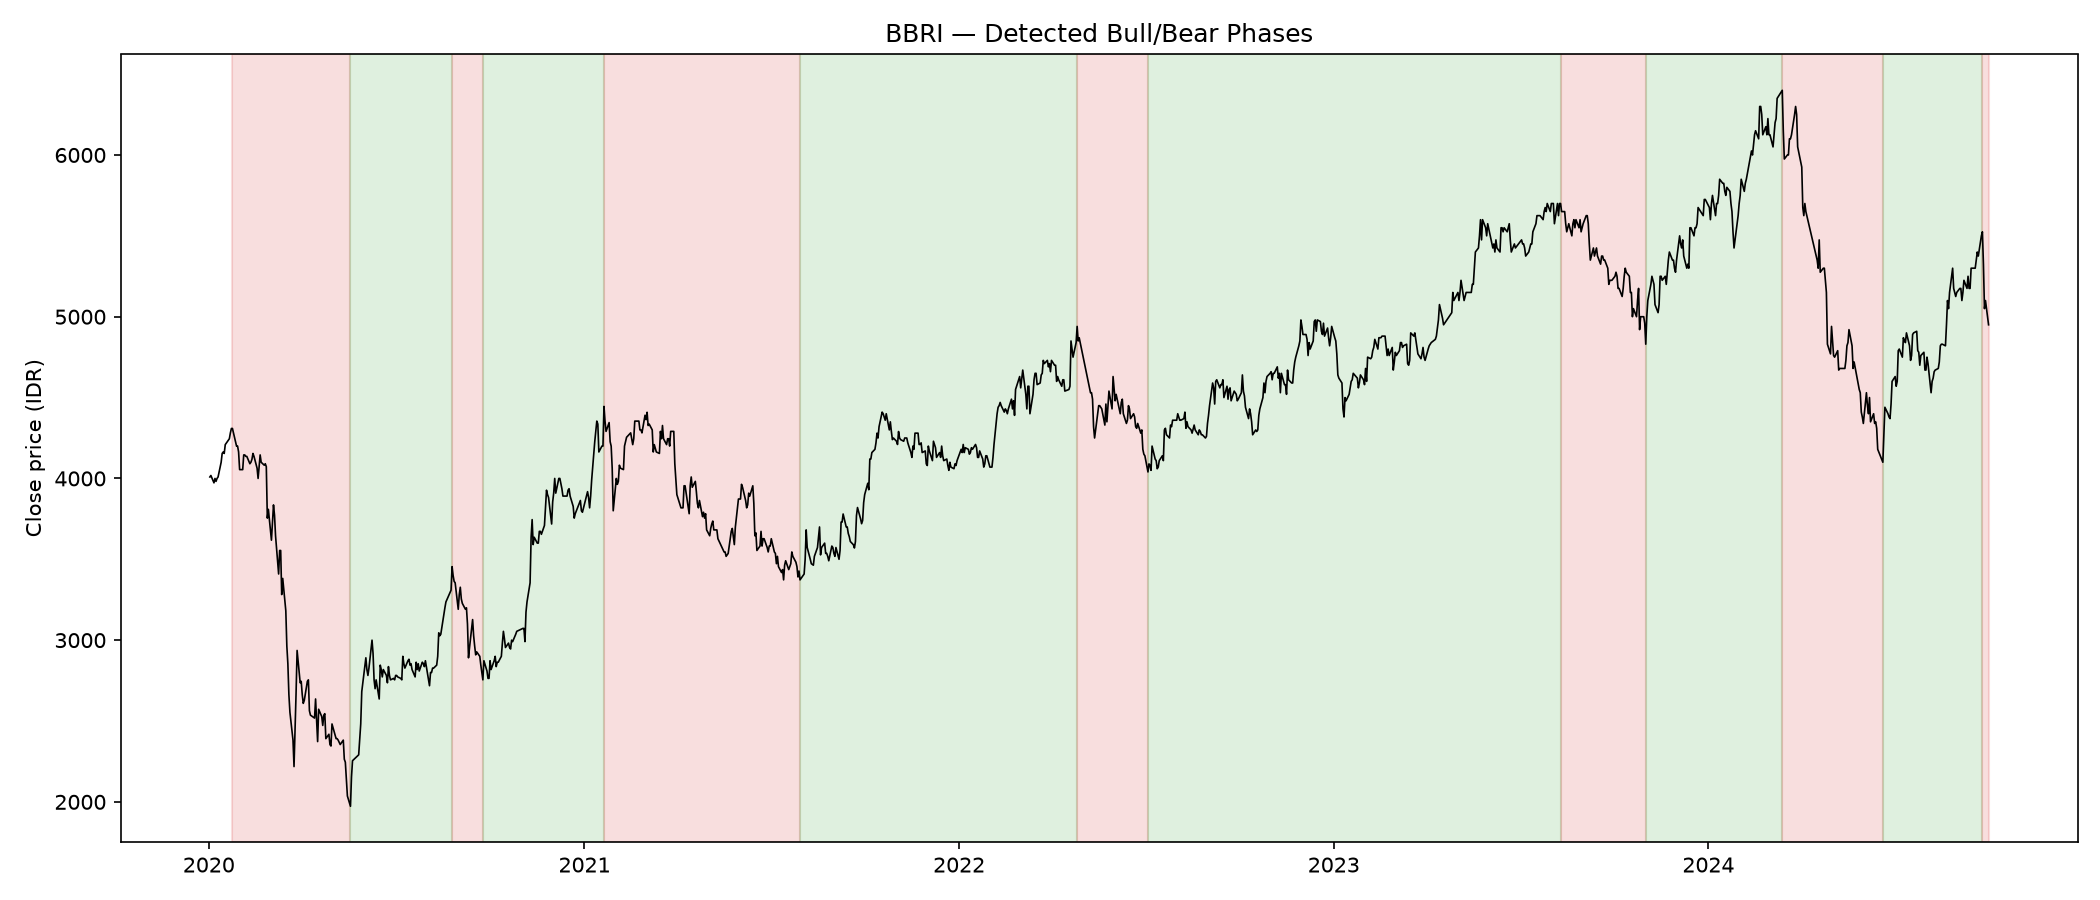
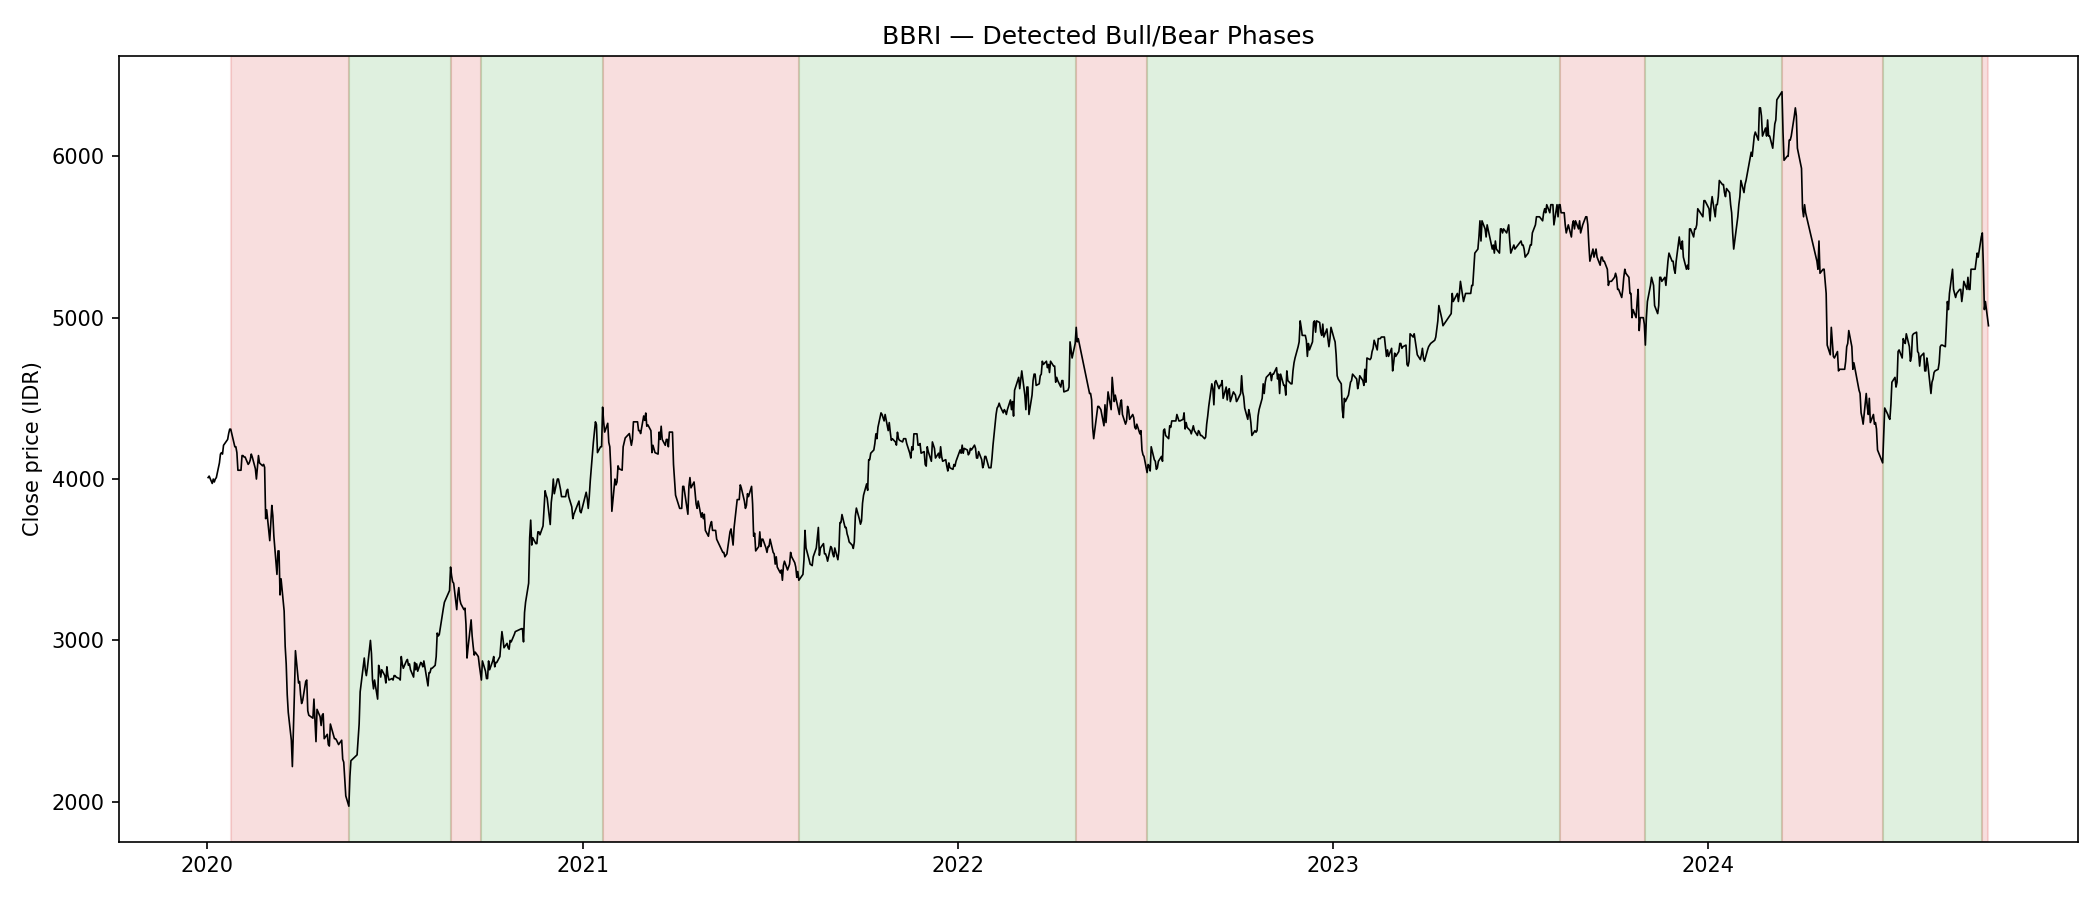
Add CI
Repo was already in good shape (real package, real tests, a working
scripts/analyze.py entrypoint matching the README's documented output)
— just had no CI wired up. Verified via `poetry run pytest` (4/4 pass)
and `poetry run python scripts/analyze.py` (output matches README
exactly) before adding the workflow.

Also fixed the placeholder `authors = ["Your Name <you@example.com>"]`
in pyproject.toml.

diff --git a/README.md b/README.md
@@ -1,5 +1,7 @@
 # turning-point-analysis
 
+[![CI](https://github.com/apricitea/turning-point-analysis/actions/workflows/ci.yml/badge.svg)](https://github.com/apricitea/turning-point-analysis/actions/workflows/ci.yml)
+
 Bull/bear market phase dating for IDX stocks, using a censored local-extrema
 algorithm in the style of Pagan & Sossounov (2003) — the standard approach in
 the finance literature for dating market cycles without relying on an
